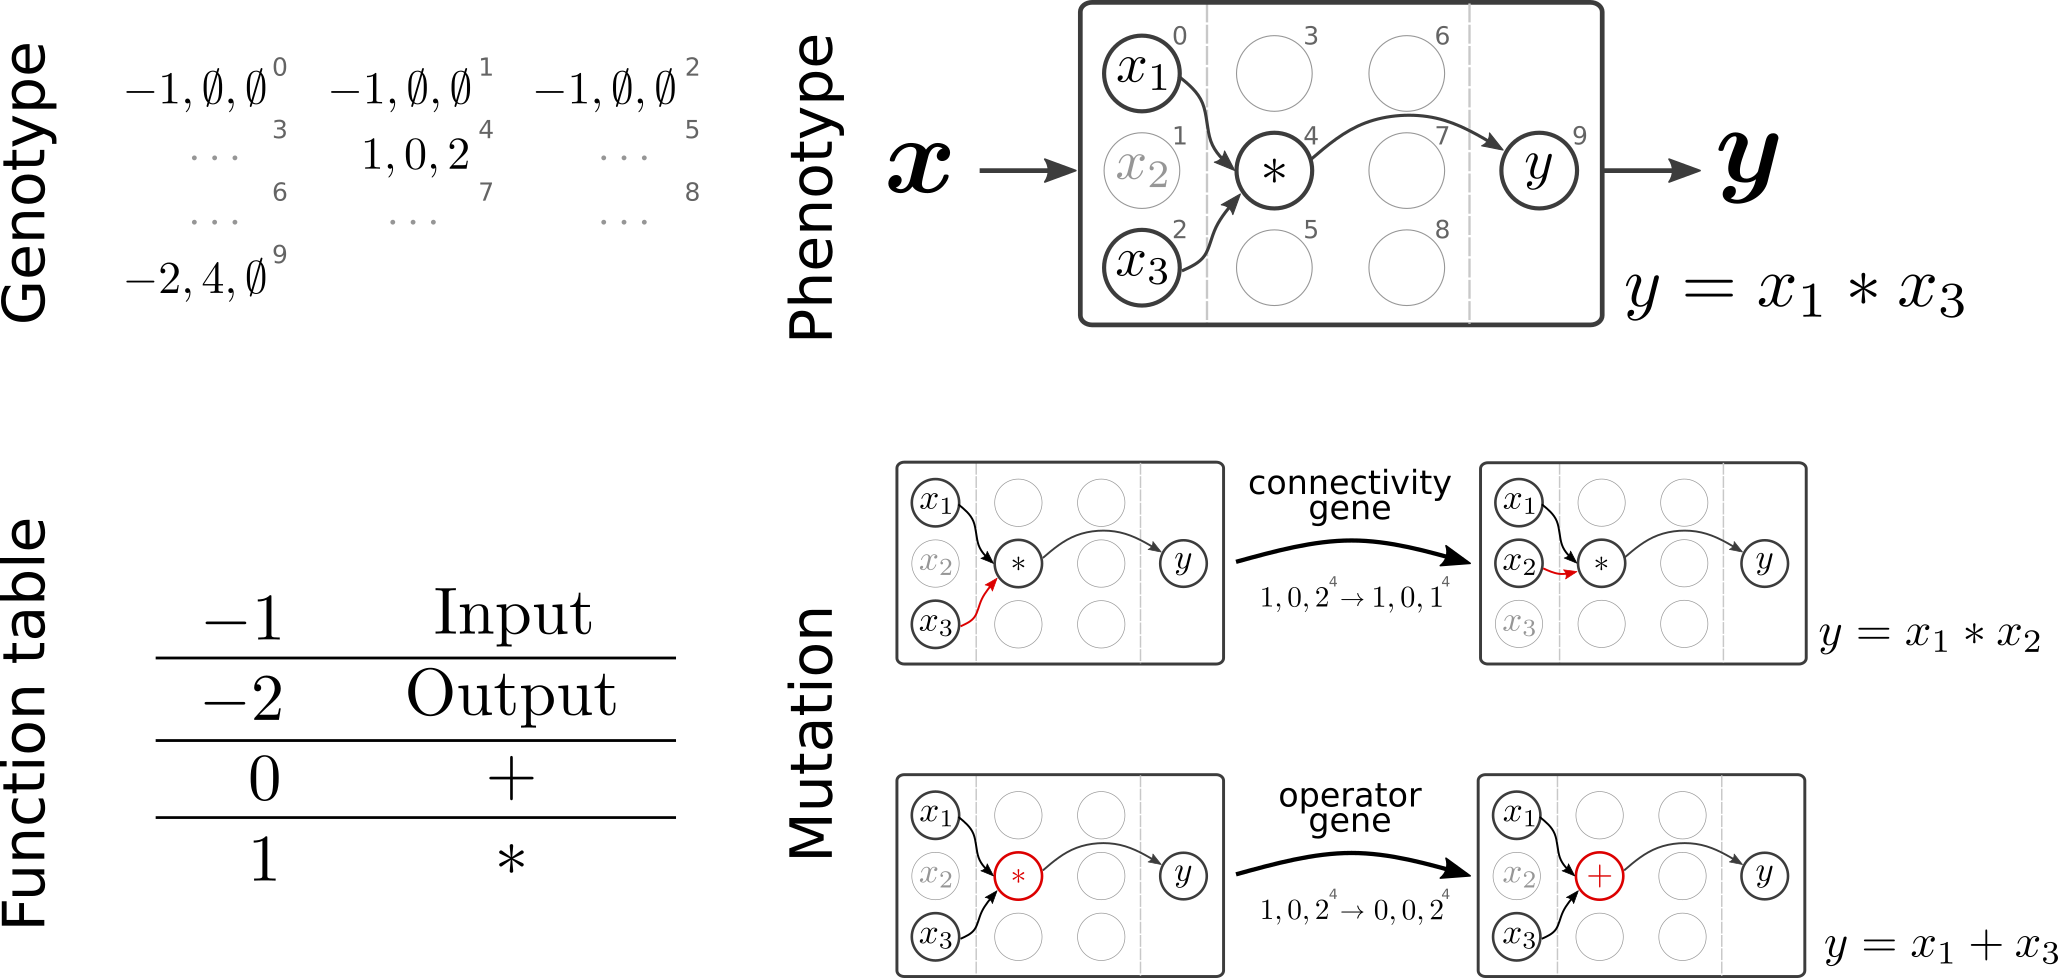
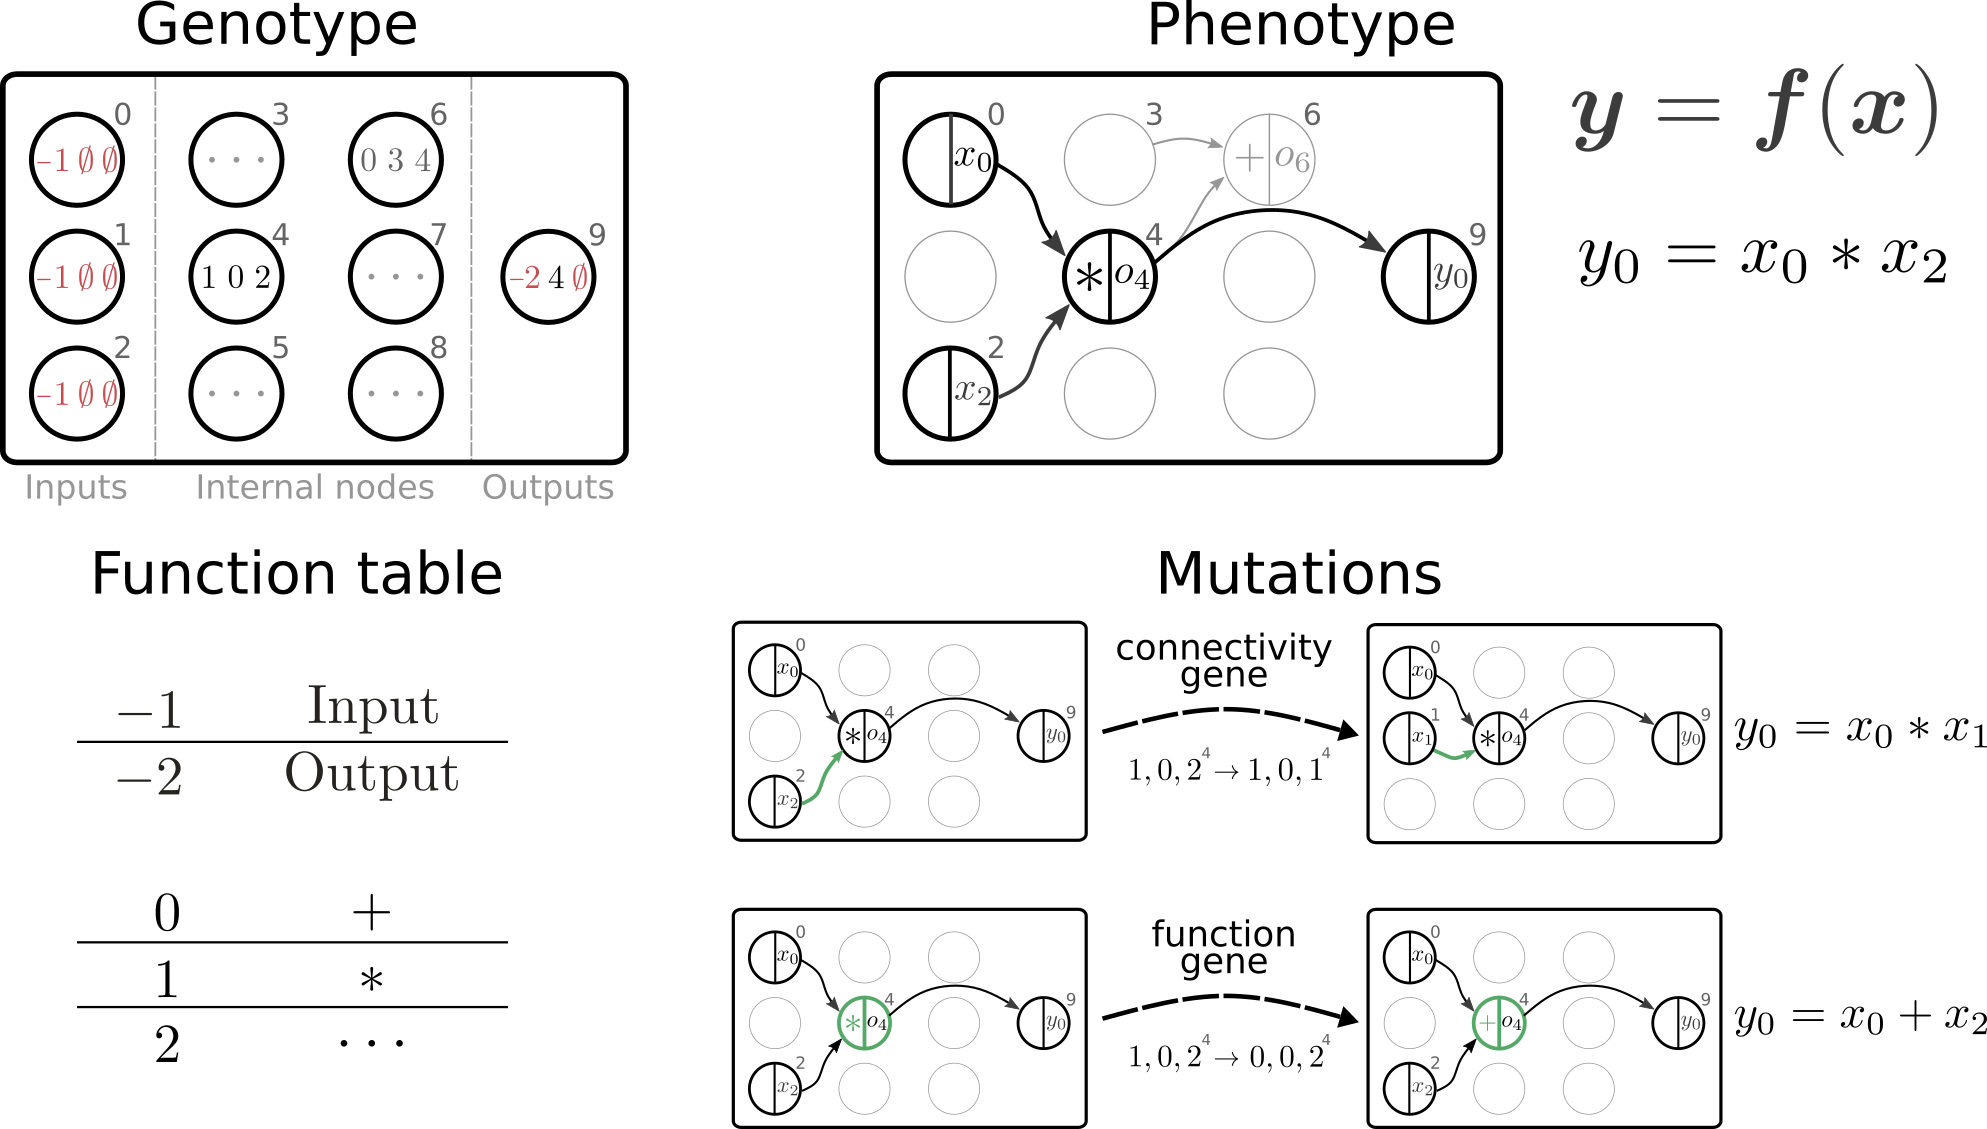
Update README file
Update cgp sketch and add reference to arxiv preprint
Add badges for black and test code coverage
Spelling of CGP

diff --git a/README.md b/README.md
@@ -6,12 +6,17 @@ HAL-CGP
 [![GPL license](https://img.shields.io/badge/License-GPLv3-blue.svg)](https://www.gnu.org/licenses/old-licenses/gpl-3.0.html)
 [![Build Status](https://api.travis-ci.org/Happy-Algorithms-League/hal-cgp.svg?branch=master)](https://travis-ci.org/Happy-Algorithms-League/hal-cgp)
 [![Checked with mypy](http://www.mypy-lang.org/static/mypy_badge.svg)](http://mypy-lang.org/)
+[![Code style: black](https://img.shields.io/badge/code%20style-black-000000.svg)](https://github.com/psf/black)
+[![Coverage Status](https://coveralls.io/repos/github/Happy-Algorithms-League/python-gp/badge.svg?branch=master)](https://coveralls.io/github/Happy-Algorithms-League/python-gp?branch=master)
 
-Cartesian Genetic Programming (CGP) in Python.
+Cartesian genetic programming (CGP) in pure Python.
 
-This library implements Cartesian Genetic Programming (e.g, Miller and Thomson, 2000; Miller, 2011) for symbolic regression in pure Python, targeting applications with expensive fitness evaluations. It provides Python data structures to represent and evolve two-dimensional directed graphs (genotype) that are translated into computational graphs (phenotype) implementing mathematical expressions. The computational graphs can be compiled as a Python functions, SymPy expressions (Meurer et al., 2017) or PyTorch modules (Paszke et al., 2017). The library currently implements an evolutionary algorithm, specifically (mu + lambda) evolution strategies adapted from Deb et al. (2002), to evolve a population of symbolic expressions in order to optimize an objective function.
+This library implements Cartesian genetic programming (e.g, Miller and Thomson, 2000; Miller, 2011) for symbolic regression in pure Python, targeting applications with expensive fitness evaluations. It provides Python data structures to represent and evolve two-dimensional directed graphs (genotype) that are translated into computational graphs (phenotype) implementing mathematical expressions. The computational graphs can be compiled as a Python functions, SymPy expressions (Meurer et al., 2017) or PyTorch modules (Paszke et al., 2017). The library currently implements an evolutionary algorithm, specifically (mu + lambda) evolution strategies adapted from Deb et al. (2002), to evolve a population of symbolic expressions in order to optimize an objective function.
 
 <div style="text-align:center"><img src="cgp-sketch.png" alt="CGP Sketch" width="600"/></div>
+
+<sub>Figure from Jordan, Schmidt, Senn & Petrovici, "Evolving to learn: discovering interpretable plasticity rules for spiking networks", [ arxiv:2005.14149](https://arxiv.org/abs/2005.14149).</sub>
+
 
 A simple example of CGP applied to a symbolic regression problem can be found in `examples/example_evo_regression.py`.
 
@@ -74,9 +79,9 @@ cgp.evolve(pop, obj, ea, **evolve_params, print_progress=True, callback=recordin
 References
 ==========
 
-Miller, J. and Thomson, P. (2000). Cartesian Genetic Programming. In Proc. European Conference on Genetic Programming, volume 1802, pages 121-132. Springer.
+Miller, J. and Thomson, P. (2000). Cartesian genetic programming. In Proc. European Conference on Genetic Programming, volume 1802, pages 121-132. Springer.
 
-Miller, J. F. (2011). Cartesian Genetic Programming. In Cartesian Genetic Programming, pages 17-34. Springer.
+Miller, J. F. (2011). Cartesian genetic programming. In Cartesian genetic programming, pages 17-34. Springer.
 
 Meurer, A., Smith, C. P., Paprocki, M., Certik, O., Kirpichev, S. B., Rocklin, M., ... & Rathnayake, T. (2017). SymPy: Symbolic Computing in Python. PeerJ Computer Science, 3, e103.
 
